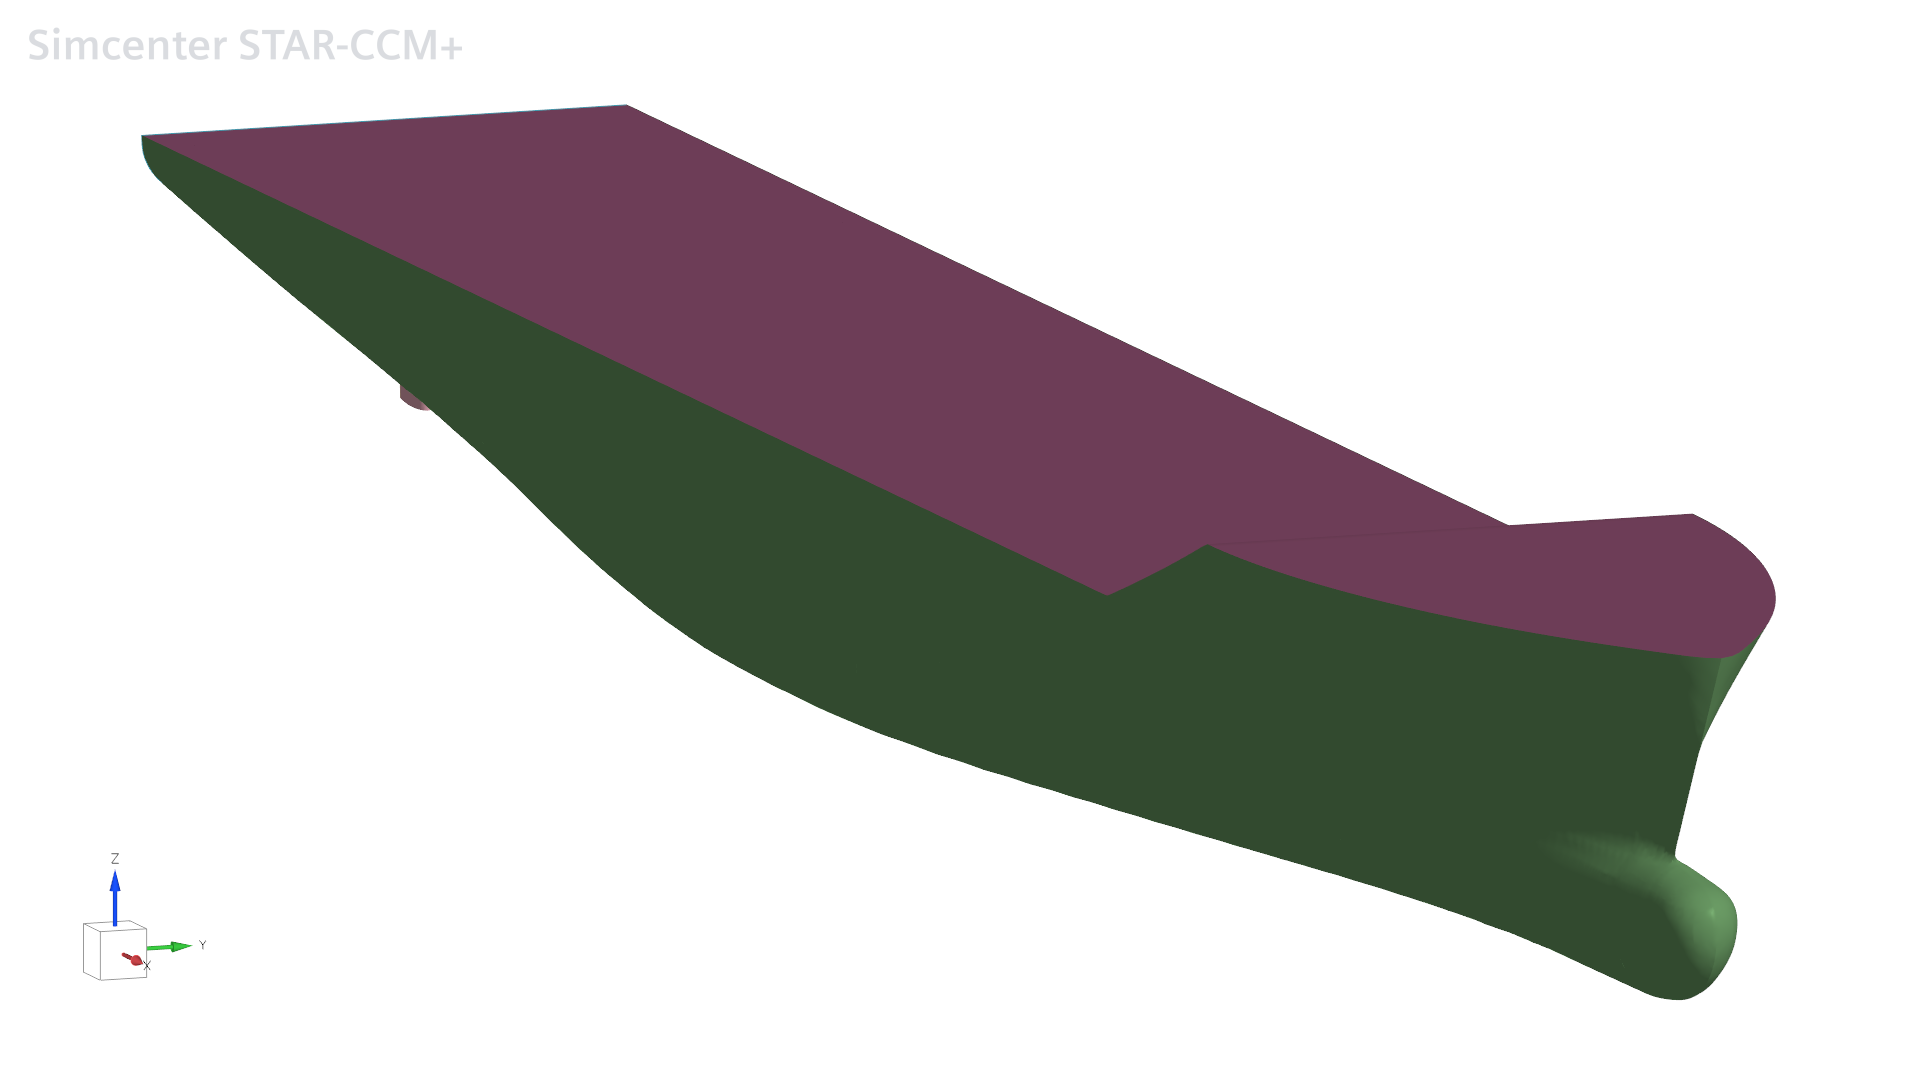
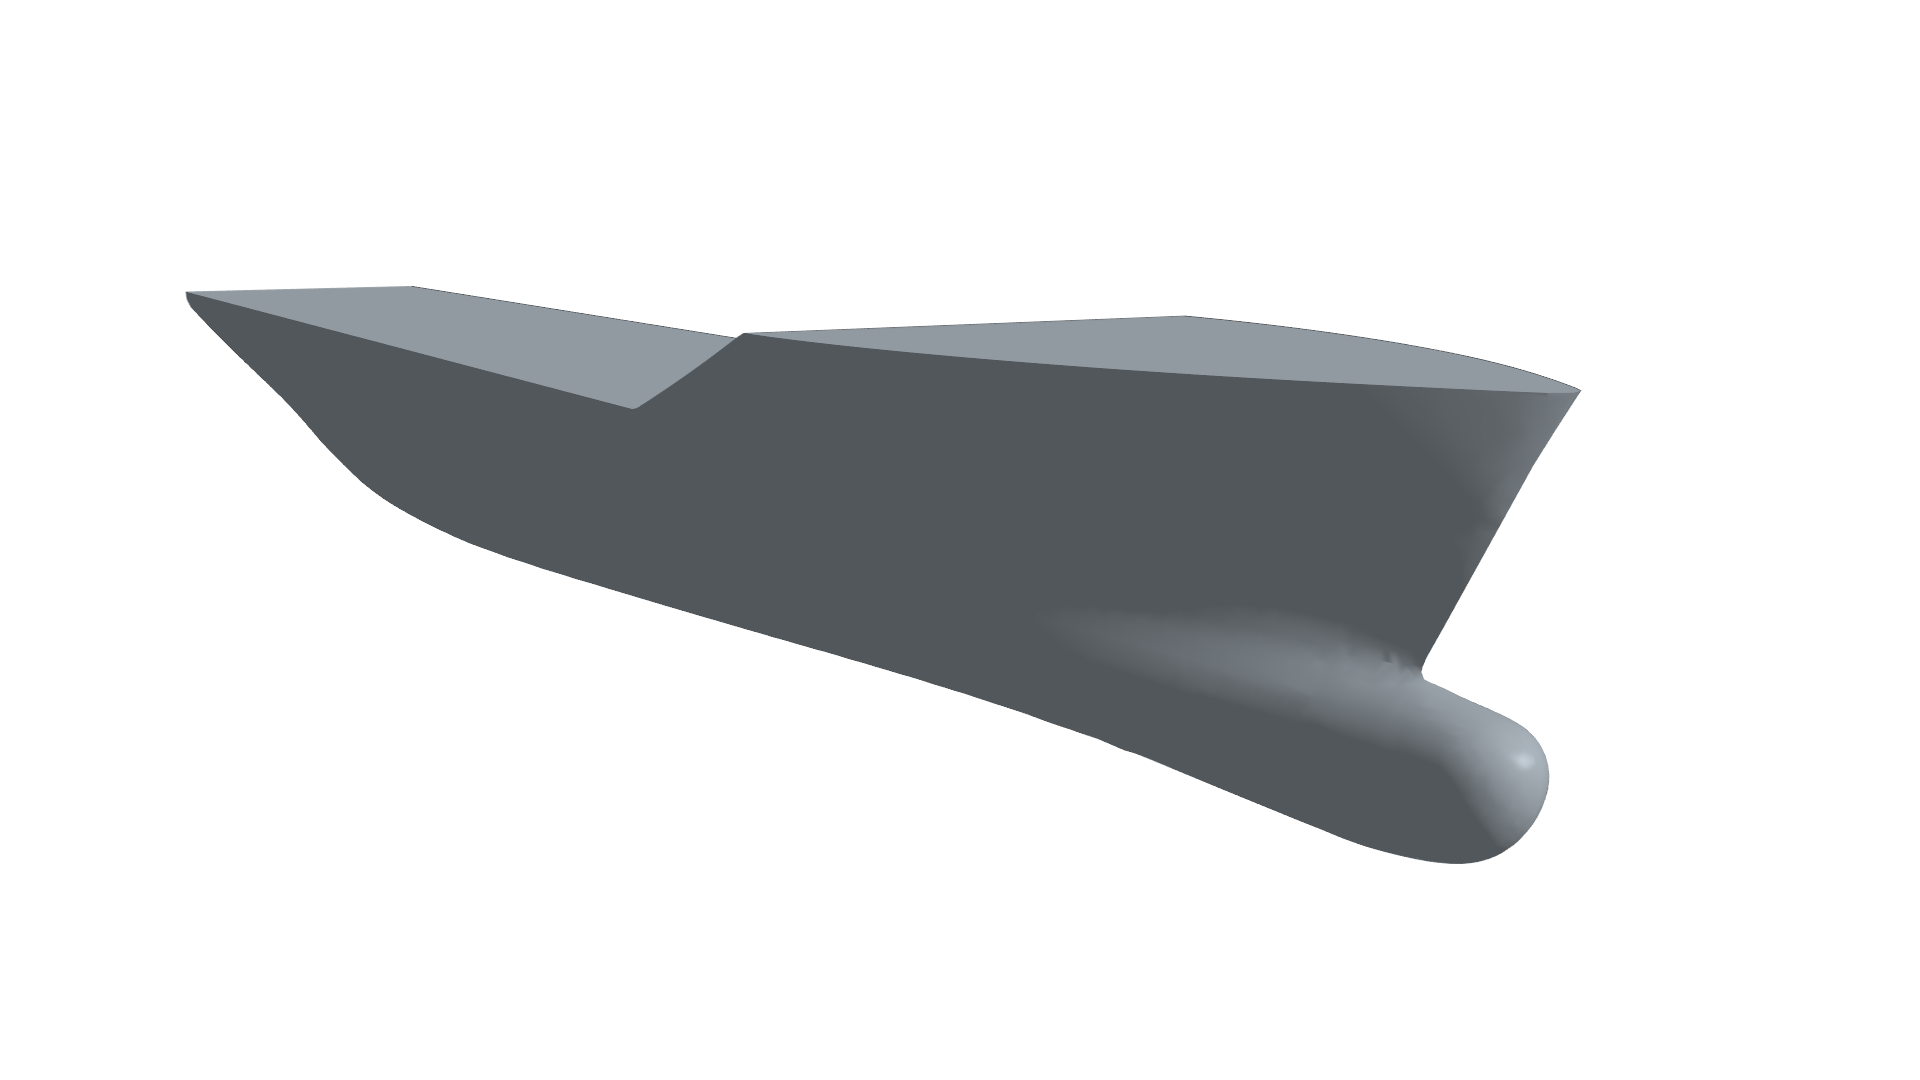
kcs page v2

diff --git a/kcs.html b/kcs.html
@@ -1,66 +1,9 @@
 <!doctype html>
-<html lang="en">
-  <head>
-    <meta charset="UTF-8" />
-    <meta name="viewport" content="width=device-width, initial-scale=1.0" />
-    <meta name="description" content="KCS resistance prediction and CFD validation case study by Maxime Becuwe." />
-    <title>KCS Resistance Prediction | Maxime Becuwe</title>
-    <link rel="preconnect" href="https://fonts.googleapis.com" />
-    <link rel="preconnect" href="https://fonts.gstatic.com" crossorigin />
-    <link href="https://fonts.googleapis.com/css2?family=DM+Mono:wght@400;500&family=DM+Sans:wght@400;500;600;700&family=Fraunces:opsz,wght@9..144,600;9..144,700&display=swap" rel="stylesheet" />
-    <link rel="stylesheet" href="kcs.css" />
-  </head>
-  <body>
-    <header class="site-header">
-      <a class="brand" href="index.html" aria-label="Back to home">MB<span>.</span></a>
-      <nav aria-label="Case study navigation">
-        <a href="index.html">Home</a>
-        <a href="#setup">Setup</a>
-        <a href="#validation">Validation</a>
-        <a href="#takeaways">Takeaways</a>
-      </nav>
-    </header>
-    <main>
-      <section class="hero">
-        <div>
-          <p class="eyebrow">CFD case study · Hydrodynamics</p>
-          <h1>KCS resistance <em>prediction & validation.</em></h1>
-          <p class="lead">A numerical investigation of the KRISO Container Ship, built as a reliable foundation for later CFD–DEM ship–ice simulations.</p>
-          <div class="chips"><span>STAR-CCM+</span><span>RANS</span><span>k–ω SST</span><span>VOF</span></div>
-        </div>
-        <figure><img src="assets/kcs/KCS_geometry.png" alt="KRISO Container Ship geometry" /><figcaption>KRISO Container Ship (KCS), a widely used reference hull for CFD validation.</figcaption></figure>
-      </section>
-
-      <section class="statement">
-        <p class="eyebrow">The objective</p>
-        <div><h2>Establish a credible resistance workflow before introducing the complexity of fragmented ice.</h2><p>The KCS was selected because extensive experimental data exists for comparison. The work focused on the computational domain, mesh strategy, solver settings and repeatable post-processing required to predict total resistance with confidence.</p></div>
-      </section>
-
-      <section id="setup">
-        <div class="heading"><p class="eyebrow">01 — Computational setup</p><h2>A model-scale container ship in a controlled numerical ocean.</h2></div>
-        <div class="metrics"><div><b>4.367 m</b><span>Length between perpendiculars</span></div><div><b>0.611 m</b><span>Breadth</span></div><div><b>0.205 m</b><span>Draft</span></div><div><b>0 DOF</b><span>Fixed-hull approach</span></div></div>
-        <div class="two-col"><div><h3>Domain & boundaries</h3><p>A three-dimensional open-water domain follows ITTC practice. The hull remains fixed while water and air enter at the target velocity, recreating the relative motion of a ship advancing through calm water.</p><p>The full hull is retained, rather than using a symmetry plane, so the setup can later accommodate asymmetric ice-floe fields.</p></div><figure><img src="assets/thesis/computational_domain.png" alt="Computational domain around the KCS ship" /><figcaption>Plan and profile views of the computational domain.</figcaption></figure></div>
-      </section>
-
-      <section class="blue-section">
-        <div class="heading"><p class="eyebrow">02 — Mesh & numerics</p><h2>Resolution where the flow matters most.</h2></div>
-        <div class="two-col"><figure><img src="assets/kcs/mesh_hull.png" alt="Refined numerical mesh around the KCS hull" /><figcaption>Local refinement around the hull, free surface, bow, stern and Kelvin wake.</figcaption></figure><div><h3>Mesh strategy</h3><ul><li>Trimmed-cell mesh with local refinement zones</li><li>Refined free surface to capture waves accurately</li><li>Prism layers along the hull to resolve the near-wall flow</li><li>Wall-function approach targeting <em>y+</em> around 30</li></ul><h3>Solver strategy</h3><p>Unsteady RANS is coupled with the k–ω SST turbulence model. The Volume of Fluid method tracks the air–water interface; five inner iterations and a 0.01 s time step provided stable convergence.</p></div></div>
-      </section>
-
-      <section id="validation">
-        <div class="heading"><p class="eyebrow">03 — Validation</p><h2>Comparing resistance with experimental reference data.</h2></div>
-        <div class="two-col results"><div><p>The approach was assessed across Froude numbers from <strong>0.06 to 0.18</strong>. Once the clean-water case was established, the same workflow was extended to ice concentrations of <strong>60%, 70% and 80%</strong>.</p><dl><div><dt>High-speed agreement</dt><dd>At 60% and 70% concentration, total resistance predictions were generally within about 10% at the higher test speeds.</dd></div><div><dt>Convergence</dt><dd>Time-averaging the contact forces over approximately 40 seconds produced a stable mean ice-resistance value.</dd></div><div><dt>Useful limitations</dt><dd>Low-speed and dense-ice results reveal where the floe physics, rather than the base hydrodynamic workflow, needs improvement.</dd></div></dl></div><figure><img src="assets/thesis/Total_resistance_sim_exp.png" alt="Simulated and experimental KCS total resistance comparison" /><figcaption>Total resistance: simulation versus experiment across ice concentrations.</figcaption></figure></div>
-      </section>
-
-      <section id="takeaways" class="takeaways">
-        <p class="eyebrow">What I learned</p>
-        <blockquote>Validation is not a final checkbox: it is the engineering framework that makes a more complex simulation trustworthy.</blockquote>
-        <div class="cards"><article><h3>Build from the physics</h3><p>Mesh, free-surface resolution and near-wall treatment directly shape the resistance prediction.</p></article><article><h3>Measure convergence</h3><p>Transient contact forces require a carefully chosen averaging interval, not a single instantaneous value.</p></article><article><h3>Make limitations explicit</h3><p>Identifying premature floe rotation gives a concrete direction for the next model iteration.</p></article></div>
-      </section>
-
-      <section class="closing"><p class="eyebrow">KCS resistance prediction & validation</p><h2>A robust CFD baseline for <em>ship–ice interaction.</em></h2><a href="index.html">Back to portfolio ↗</a></section>
-    </main>
-    <footer><span>© <span id="year"></span> Maxime Becuwe</span><span>Hydrodynamics & CFD</span></footer>
-    <script>document.getElementById('year').textContent = new Date().getFullYear();</script>
-  </body>
-</html>
+<html lang="en"><head><meta charset="UTF-8" /><meta name="viewport" content="width=device-width, initial-scale=1.0" /><meta name="description" content="KCS calm-water resistance prediction and mesh-sensitivity study by Maxime Becuwe." /><title>KCS Calm-Water CFD Study | Maxime Becuwe</title><link rel="preconnect" href="https://fonts.googleapis.com" /><link rel="preconnect" href="https://fonts.gstatic.com" crossorigin /><link href="https://fonts.googleapis.com/css2?family=DM+Mono:wght@400;500&family=DM+Sans:wght@400;500;600;700&family=Fraunces:opsz,wght@9..144,600;9..144,700&display=swap" rel="stylesheet" /><link rel="stylesheet" href="kcs.css" /><link rel="stylesheet" href="kcs-extra.css" /><link rel="stylesheet" href="kcs-metrics.css" /><link rel="stylesheet" href="kcs-results.css" /></head>
+<body><header class="site-header"><a class="brand" href="index.html">MB<span>.</span></a><nav><a href="index.html">Home</a><a href="#setup">Setup</a><a href="#results">Results</a><a href="#takeaways">Takeaways</a></nav></header><main>
+<section class="hero"><div><p class="eyebrow">CFD case study · calm water</p><h1>KCS resistance <em>prediction & mesh sensitivity.</em></h1><p class="lead">A calm-water CFD study of the KRISO Container Ship, comparing three mesh resolutions with experimental drag-coefficient data.</p><div class="chips"><span>STAR-CCM+</span><span>RANS</span><span>k–ω SST</span><span>6 operating points</span></div></div><figure><img src="assets/kcs/KCS_geometry.png" alt="KRISO Container Ship geometry" /><figcaption>KRISO Container Ship (KCS), a widely used benchmark hull for CFD validation.</figcaption></figure></section>
+<section class="statement"><p class="eyebrow">The objective</p><div><h2>Find the coarsest mesh that still reproduces the measured drag coefficient accurately.</h2><p>The study compares numerical predictions with Neptech experimental fluid-dynamics (EFD) data at six velocities, from 0.915 to 2.379 m/s. The analysis quantifies the effect of mesh refinement and identifies an efficient baseline for future simulations.</p></div></section>
+<section id="setup"><div class="heading"><p class="eyebrow">01 — Computational setup</p><h2>A model-scale container ship in a controlled numerical ocean.</h2></div><div class="metrics metric-grid-six"><div><b>7.2786 m</b><span>Length between perpendiculars (Lpp)</span></div><div><b>1.019 m</b><span>Waterline breadth (BWL)</span></div><div><b>0.3418 m</b><span>Draft (T)</span></div><div><b>−1.48%</b><span>LCB (% Lpp, fwd +)</span></div><div><b>2,725</b><span>Pitch moment of inertia (Kyy)</span></div><div><b>2 DOF</b><span>Heave & pitch</span></div></div><div class="two-col"><div><h3>Flow model</h3><p>The simulations use RANS closed with the k–ω SST turbulence model. The hull is free in heave and pitch, while the computational domain resolves the free surface and wake flow around the complete hull.</p><p>Six operating points cover Froude numbers from <strong>0.108 to 0.282</strong>.</p></div><figure><img src="assets/thesis/computational_domain.png" alt="Computational domain around the KCS ship" /><figcaption>Plan and profile views of the computational domain.</figcaption></figure></div></section>
+<section class="blue-section"><div class="heading"><p class="eyebrow">02 — Mesh & numerics</p><h2>Resolution where the flow matters most.</h2></div><div class="two-col"><figure><img src="assets/kcs/mesh_hull.png" alt="Refined numerical mesh around the KCS hull" /><figcaption>Local refinement around the hull, free surface, bow, stern and wake.</figcaption></figure><div><h3>Mesh strategy</h3><ul><li>Trimmed-cell mesh with local refinement around the hull, free surface and wake</li><li>Prism layers designed for a first cell at <em>y+</em> = 30</li><li>Mesh design referenced to Fr = 0.260; <em>y+</em> decreases at lower velocities</li></ul><h3>Solver strategy</h3><p>Each time step uses <strong>10 inner iterations</strong>. The time step is <strong>0.04 s</strong>, selected to keep the base-size Courant number of the order of one at maximum velocity — 0.846 for the baseline mesh.</p></div></div><div class="mesh-gallery"><figure><img src="assets/kcs/meshXY.png" alt="Top view of the KCS computational mesh" /><figcaption>Top view: refinement around the hull and wake region.</figcaption></figure><figure><img src="assets/kcs/meshXZ.png" alt="Side view of the KCS computational mesh" /><figcaption>Side view: free-surface and hull refinement zones.</figcaption></figure></div><div class="mesh-table"><div><b>Mesh 1</b><span>620,000 cells · base size 0.1125 m · Co 0.846</span></div><div><b>Mesh 2</b><span>1,133,000 cells · base size 0.080 m · Co 1.1895</span></div><div><b>Mesh 3</b><span>2,362,000 cells · base size 0.05625 m · Co 1.692</span></div></div></section>
+<section id="results"><div class="heading"><p class="eyebrow">03 — Results</p><h2>All three meshes capture the experimental drag trend.</h2></div><div class="two-col results"><div><p>The EFD drag coefficient decreases from Fr = 0.108 to approximately Fr = 0.23, before rising again at the highest speeds. All numerical meshes reproduce this trend closely.</p><dl><div><dt>Mesh 1 · baseline</dt><dd>Mean absolute error: <strong>1.71%</strong>. It is the coarsest and least expensive mesh while still producing satisfactory agreement.</dd></div><div><dt>Mesh 2</dt><dd>Mean absolute error: <strong>1.18%</strong>, with modest improvement over the baseline.</dd></div><div><dt>Mesh 3 · finest</dt><dd>Mean absolute error: <strong>1.00%</strong>. The best overall agreement, with its largest underestimation (−3.02%) at 2.379 m/s.</dd></div></dl></div><figure><img src="assets/kcs/drag-coefficient-vs-velocity.png" alt="Experimental and simulated KCS drag coefficients across velocity" /><figcaption>Drag coefficient versus velocity: EFD reference compared with all three CFD meshes.</figcaption></figure></div><div class="error-figure"><figure><img src="assets/kcs/relative-error-vs-velocity.png" alt="Relative error of each KCS mesh compared with experiment" /><figcaption>Relative error against the EFD data for the three mesh resolutions.</figcaption></figure></div></section>
+<section id="takeaways" class="takeaways"><p class="eyebrow">What I learned</p><blockquote>Mesh refinement improves the agreement, but Mesh 1 provides the best accuracy-to-cost trade-off for the next stage of the workflow.</blockquote><div class="cards"><article><h3>Validate against data</h3><p>Comparing at six operating points exposes both the overall trend and the limits at the highest speed.</p></article><article><h3>Control the numerics</h3><p>Ten inner iterations and a 0.04 s time step give a stable, physically scaled transient solution.</p></article><article><h3>Choose with purpose</h3><p>The finest mesh is most accurate, but the baseline mesh is selected to preserve computational efficiency.</p></article></div></section><section class="closing"><p class="eyebrow">KCS calm-water CFD study</p><h2>A validated baseline for <em>future naval simulations.</em></h2><a href="index.html">Back to portfolio ↗</a></section></main><footer><span>© <span id="year"></span> Maxime Becuwe</span><span>Hydrodynamics & CFD</span></footer><script>document.getElementById('year').textContent = new Date().getFullYear();</script></body></html>

diff --git a/kcs-results.css b/kcs-results.css
@@ -1,0 +1,1 @@
+.mesh-table{display:grid;grid-template-columns:repeat(3,1fr);border-top:1px solid #afcbd1;margin-top:55px}.mesh-table div{padding:20px 20px 0 0;border-bottom:1px solid #afcbd1}.mesh-table div+div{padding-left:20px;border-left:1px solid #afcbd1}.mesh-table b{display:block;font:600 24px/1 Fraunces,serif}.mesh-table span{display:block;margin-top:7px;color:#48626b;font-size:14px}.error-figure{max-width:850px;margin:65px auto 0}@media(max-width:760px){.mesh-table{grid-template-columns:1fr}.mesh-table div+div{padding-left:0;border-left:0}.mesh-table div{padding:18px 0}}

diff --git a/kcs-extra.css b/kcs-extra.css
@@ -1,0 +1,1 @@
+.mesh-gallery{display:grid;grid-template-columns:1fr 1fr;gap:24px;margin-top:55px}.mesh-gallery img{background:#e8d2b3}@media(max-width:760px){.mesh-gallery{grid-template-columns:1fr;gap:32px}}

diff --git a/kcs-metrics.css b/kcs-metrics.css
@@ -1,0 +1,1 @@
+.metric-grid-six{grid-template-columns:repeat(3,1fr)}@media(max-width:760px){.metric-grid-six{grid-template-columns:1fr}}
